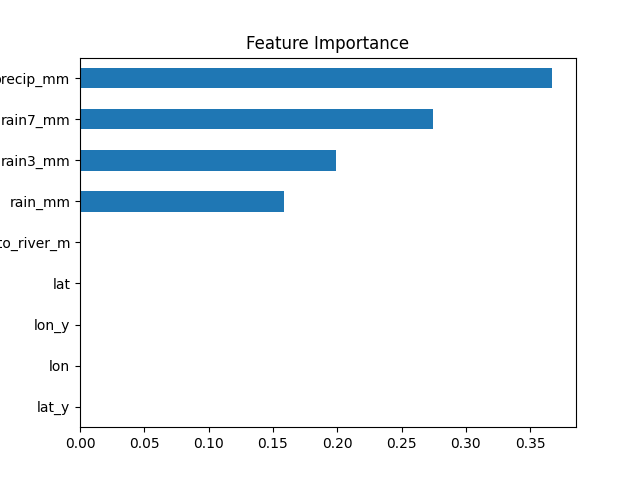
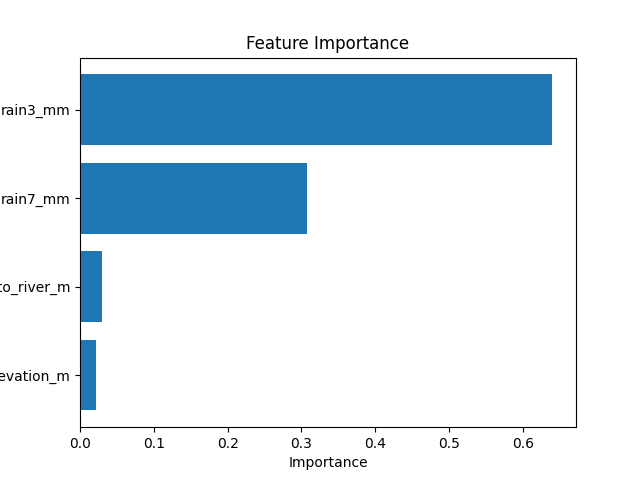
new update

diff --git a/src/model_training/train_flood_model.py b/src/model_training/train_flood_model.py
@@ -1,0 +1,178 @@
+import pandas as pd
+import os
+import joblib
+import numpy as np
+import matplotlib.pyplot as plt
+
+from sklearn.model_selection import train_test_split, StratifiedKFold, RandomizedSearchCV
+from sklearn.metrics import classification_report, f1_score
+from sklearn.ensemble import RandomForestClassifier
+from sklearn.linear_model import LogisticRegression
+
+import xgboost as xgb
+from imblearn.over_sampling import SMOTE
+
+# ----------------------
+# paths
+# ----------------------
+BASE_DIR = os.path.abspath(
+    os.path.join(os.path.dirname(__file__), "..", "..")
+)
+
+DATA_FILE = os.path.join(
+    BASE_DIR,
+    "data/processed/training_dataset_gujarat_advanced_labeled.csv"
+)
+
+MODEL_DIR = os.path.join(BASE_DIR, "models")
+PLOT_DIR = os.path.join(BASE_DIR, "plots")
+
+os.makedirs(MODEL_DIR, exist_ok=True)
+os.makedirs(PLOT_DIR, exist_ok=True)
+
+# ----------------------
+# load data
+# ----------------------
+print("📥 Loading dataset...")
+df = pd.read_csv(DATA_FILE)
+
+TARGET = "flood"
+
+# =========================================================
+# ⚡ STAGE 1: FAST TUNING (SMALL DATA)
+# =========================================================
+print("\n⚡ Stage 1: Hyperparameter Tuning (FAST MODE)")
+
+df_small = df.sample(300000, random_state=42)
+
+X_small = df_small[[
+    "rain3_mm",
+    "rain7_mm",
+    "elevation_m",
+    "distance_to_river_m"
+]].copy()
+
+y_small = df_small[TARGET]
+
+# cleaning
+X_small = X_small.replace([float("inf"), -float("inf")], None)
+X_small = X_small.fillna(X_small.median()).fillna(0)
+
+# split
+X_train, X_test, y_train, y_test = train_test_split(
+    X_small, y_small,
+    test_size=0.2,
+    random_state=42,
+    stratify=y_small
+)
+
+# SMOTE (small data only)
+sm = SMOTE(random_state=42)
+X_train, y_train = sm.fit_resample(X_train, y_train)
+
+cv = StratifiedKFold(n_splits=3, shuffle=True, random_state=42)
+
+# ----------------------
+# Random Forest tuning
+# ----------------------
+rf = RandomForestClassifier(random_state=42, n_jobs=-1)
+
+rf_params = {
+    "n_estimators": [100, 200],
+    "max_depth": [10, 15, None],
+    "min_samples_split": [2, 5],
+    "min_samples_leaf": [1, 2],
+    "class_weight": ["balanced"]
+}
+
+rf_search = RandomizedSearchCV(
+    rf,
+    rf_params,
+    n_iter=3,
+    scoring="f1",
+    cv=cv,
+    verbose=1,
+    n_jobs=-1
+)
+
+rf_search.fit(X_train, y_train)
+rf_best_params = rf_search.best_params_
+
+print("\n✅ Best RF Params:", rf_best_params)
+
+# =========================================================
+# ⚡ STAGE 2: FINAL TRAINING (FULL DATA)
+# =========================================================
+print("\n🚀 Stage 2: Final Training (FULL DATA)")
+
+X = df[[
+    "rain3_mm",
+    "rain7_mm",
+    "elevation_m",
+    "distance_to_river_m"
+]].copy()
+
+y = df[TARGET]
+
+# cleaning
+X = X.replace([float("inf"), -float("inf")], None)
+X = X.fillna(X.median()).fillna(0)
+
+# split
+X_train, X_test, y_train, y_test = train_test_split(
+    X, y,
+    test_size=0.2,
+    random_state=42,
+    stratify=y
+)
+
+# SMOTE (full training)
+print("⚖ Applying SMOTE (final)...")
+sm = SMOTE(random_state=42)
+X_train, y_train = sm.fit_resample(X_train, y_train)
+
+# ----------------------
+# Final RF model
+# ----------------------
+print("\n🌲 Training Final Random Forest...")
+
+rf_final = RandomForestClassifier(
+    **rf_best_params,
+    random_state=42,
+    n_jobs=-1
+)
+
+rf_final.fit(X_train, y_train)
+
+rf_pred = rf_final.predict(X_test)
+
+print("\n📊 Final Model Report:")
+print(classification_report(y_test, rf_pred))
+
+# save model
+joblib.dump(rf_final, os.path.join(MODEL_DIR, "flood_model_final.pkl"))
+
+# =========================================================
+# 📊 FEATURE IMPORTANCE
+# =========================================================
+print("\n📊 Feature Importance...")
+
+importance_df = pd.DataFrame({
+    "feature": X.columns,
+    "importance": rf_final.feature_importances_
+}).sort_values(by="importance", ascending=False)
+
+print(importance_df)
+
+plt.figure()
+plt.barh(importance_df["feature"], importance_df["importance"])
+plt.xlabel("Importance")
+plt.title("Feature Importance")
+plt.gca().invert_yaxis()
+
+plot_path = os.path.join(PLOT_DIR, "feature_importance.png")
+plt.savefig(plot_path)
+
+print("📈 Saved:", plot_path)
+
+print("\n✅ TRAINING COMPLETE")

diff --git a/src/data_collection/create_advanced_flood_label.py b/src/data_collection/create_advanced_flood_label.py
@@ -1,0 +1,73 @@
+import pandas as pd
+import os
+import numpy as np
+
+BASE_DIR = os.path.abspath(
+    os.path.join(os.path.dirname(__file__), "..", "..")
+)
+
+INPUT_FILE = os.path.join(
+    BASE_DIR,
+    "data/processed/training_dataset_gujarat_labeled.csv"
+)
+
+OUTPUT_FILE = os.path.join(
+    BASE_DIR,
+    "data/processed/training_dataset_gujarat_advanced_labeled.csv"
+)
+
+print("📥 Loading dataset...")
+df = pd.read_csv(INPUT_FILE)
+
+print("Columns:", df.columns.tolist())
+
+# ----------------------
+# SAFETY CHECK
+# ----------------------
+required = ["rain3_mm", "rain7_mm", "elevation_m", "distance_to_river_m"]
+
+for col in required:
+    if col not in df.columns:
+        raise ValueError(f"Missing column: {col}")
+
+# ----------------------
+# CLEAN DATA
+# ----------------------
+print("🧹 Cleaning data...")
+
+df = df.replace([float("inf"), -float("inf")], None)
+df = df.fillna(df.median(numeric_only=True))
+df = df.fillna(0)
+
+# ----------------------
+# ADVANCED NON-LINEAR SCORE
+# ----------------------
+print("🌊 Creating advanced flood label...")
+
+score = (
+    df["rain3_mm"] * 0.3 +
+    df["rain7_mm"] * 0.2 +
+    (1 / (df["distance_to_river_m"] + 1)) * 50000 +
+    (1 / (df["elevation_m"] + 1)) * 2000
+)
+
+# normalize score → probability
+prob = (score - score.min()) / (score.max() - score.min())
+
+# add randomness (real-world uncertainty)
+random_noise = np.random.rand(len(df))
+
+df["flood"] = (prob > random_noise).astype(int)
+
+# ----------------------
+# CHECK DISTRIBUTION
+# ----------------------
+print("\nFlood Distribution:")
+print(df["flood"].value_counts())
+
+# ----------------------
+# SAVE
+# ----------------------
+df.to_csv(OUTPUT_FILE, index=False)
+
+print("\n✅ Saved:", OUTPUT_FILE)

diff --git a/src/modeling/predict_flood.py b/src/modeling/predict_flood.py
@@ -1,0 +1,45 @@
+import pandas as pd
+import os
+import joblib
+
+BASE_DIR = os.path.abspath(
+    os.path.join(os.path.dirname(__file__), "..", "..")
+)
+
+MODEL_PATH = os.path.join(BASE_DIR, "models/flood_model_xgb.pkl")
+
+INPUT_FILE = os.path.join(
+    BASE_DIR,
+    "data/processed/realtime_dataset.csv"
+)
+
+OUTPUT_FILE = os.path.join(
+    BASE_DIR,
+    "data/processed/realtime_predictions.csv"
+)
+
+
+def main():
+
+    print("📥 Loading realtime data...")
+    df = pd.read_csv(INPUT_FILE, on_bad_lines="skip")
+
+    print("📦 Loading model...")
+    model = joblib.load(MODEL_PATH)
+
+    # select numeric features
+    X = df.select_dtypes(include=["number"])
+
+    print("🤖 Predicting flood...")
+    df["flood_prediction"] = model.predict(X)
+
+    # probability (VERY IMPORTANT)
+    df["flood_probability"] = model.predict_proba(X)[:, 1]
+
+    df.to_csv(OUTPUT_FILE, index=False)
+
+    print("✅ Predictions saved:", OUTPUT_FILE)
+
+
+if __name__ == "__main__":
+    main()

diff --git a/src/model_training/utils.py b/src/model_training/utils.py
@@ -1,0 +1,4 @@
+def print_section(title):
+    print("\n" + "="*40)
+    print(title)
+    print("="*40)
